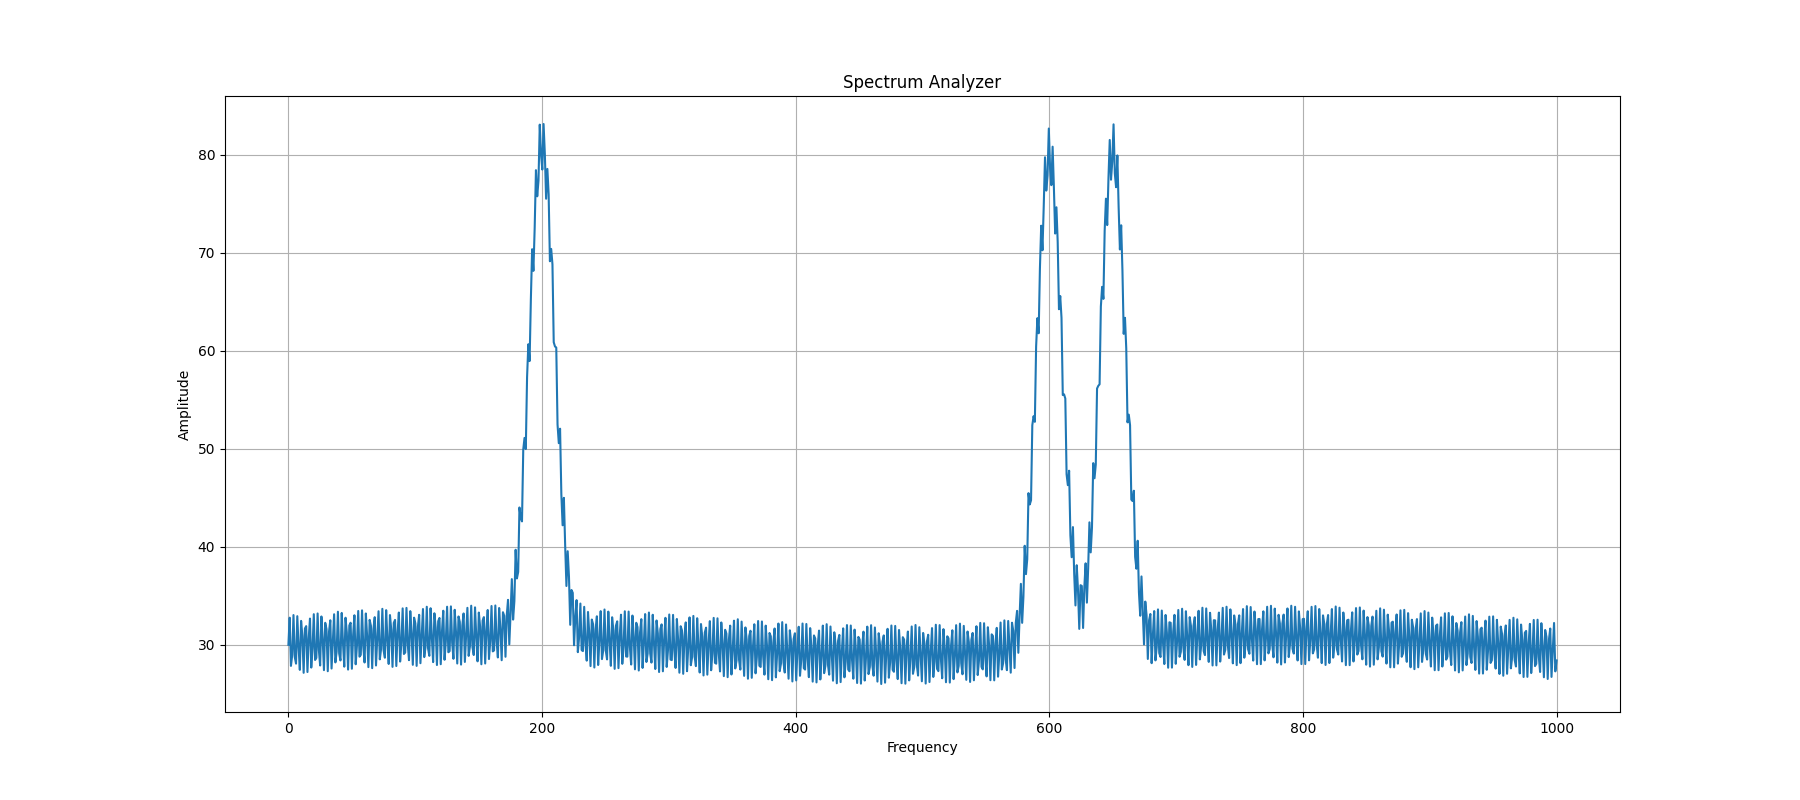
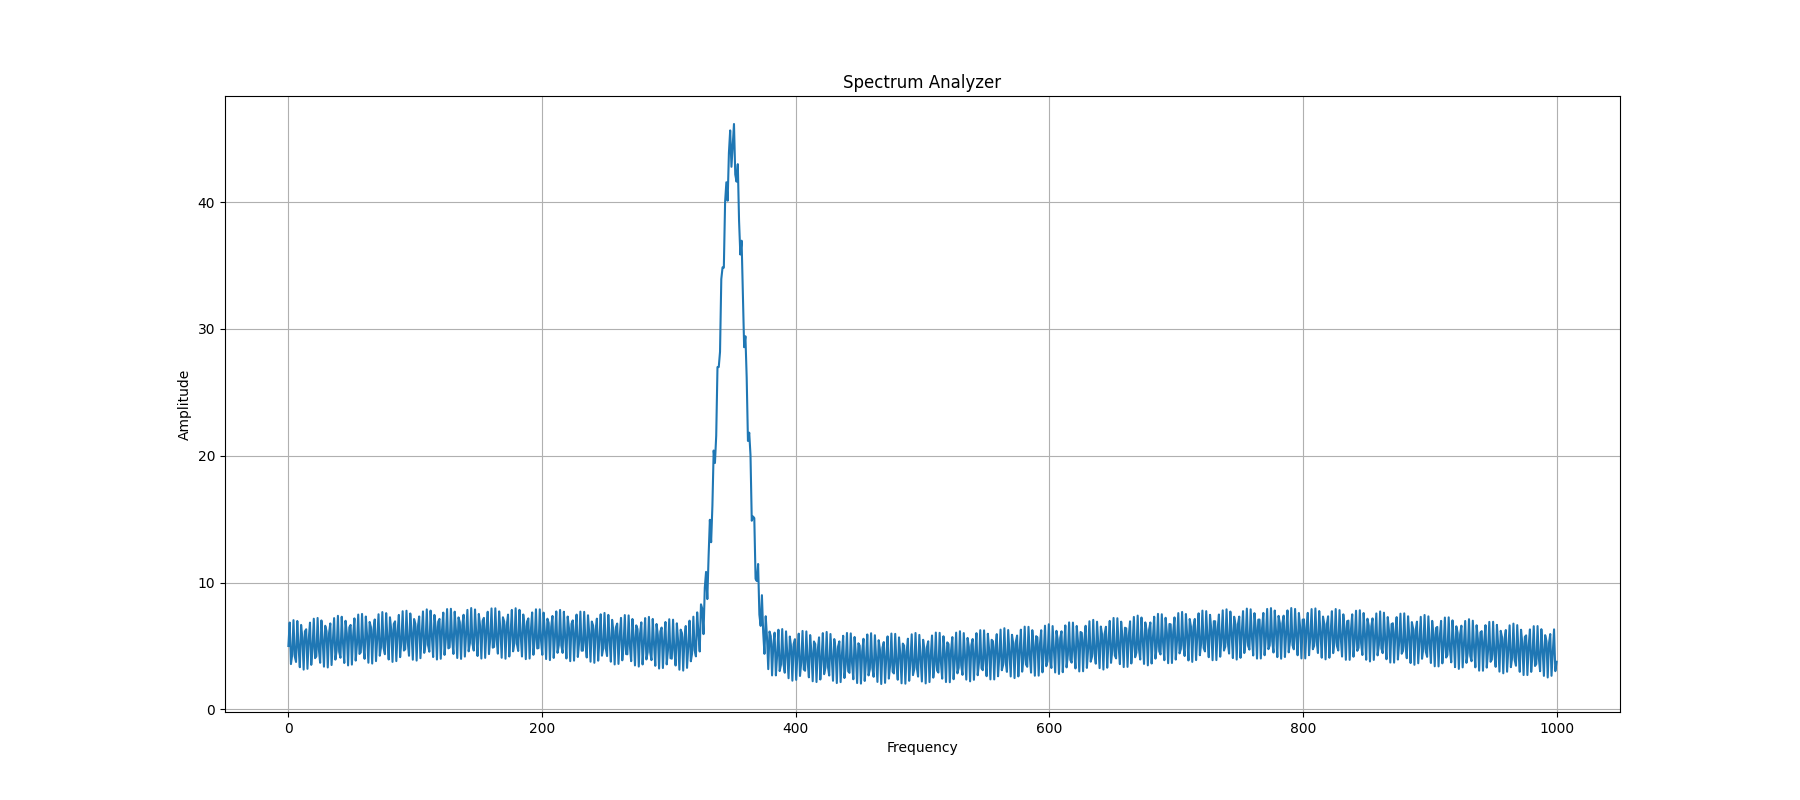
Not working yet. Need more brain to fix

diff --git a/web/templates/settings.html b/web/templates/settings.html
@@ -1,0 +1,112 @@
+<!DOCTYPE html>
+<html>
+<head>
+    <title>Settings - Spectrum Analyzer</title>
+</head>
+<body>
+    <h1>Settings - Spectrum Analyzer</h1>
+    <a href="{{ url_for('index') }}">Spectrum Analyzer</a>
+
+    <form method="POST">
+
+        <div>
+            <!-- Frequency Range Settings -->
+            <h2>Frequency Range Settings</h2>
+            {{ form.frequency_range_start.label }}
+            {{ form.frequency_range_start(size=10) }}
+            <p></p>
+            {{ form.frequency_range_end.label }}
+            {{ form.frequency_range_end(size=10) }}
+            <p></p>
+            {{ form.num_points.label }}
+            {{ form.num_points(size=10) }}
+            <p></p>
+        </div>
+
+        <div>
+            <!-- Noise Floor Settings -->
+            <h2>Noise Floor Settings</h2>
+            {{ form.noise_floor_base_amplitude.label }}
+            {{ form.noise_floor_base_amplitude(size=10) }}
+            <p></p>
+            {{ form.noise_floor_high_energy_amplitude.label }}
+            {{ form.noise_floor_high_energy_amplitude(size=10) }}
+            <p></p>
+            {{ form.noise_floor_high_energy_frequency.label }}
+            {{ form.noise_floor_high_energy_frequency(size=10) }}
+            <p></p>
+            {{ form.noise_floor_low_energy_amplitude.label }}
+            {{ form.noise_floor_low_energy_amplitude(size=10) }}
+            <p></p>
+            {{ form.noise_floor_low_energy_frequency.label }}
+            {{ form.noise_floor_low_energy_frequency(size=10) }}
+            <p></p>
+        </div>
+
+        <div>
+            <!-- Signal Spike Settings -->
+            <h2>Signal Spike Settings</h2>
+            <!-- Render fields for multiple signal spikes -->
+            {% for spike in form.signal_spike_params %}
+            <div class="spike">
+                {{ spike.signal_spike_amplitude.label }}
+                {{ spike.signal_spike_amplitude }}
+                <br>
+                {{ spike.signal_spike_mu.label }}
+                {{ spike.signal_spike_mu }}
+                <br>
+                {{ spike.signal_spike_sigma.label }}
+                {{ spike.signal_spike_sigma }}
+                <br>
+                <button type="button" class="remove-signal-spike">Remove Signal Spike</button>
+            </div>
+            {% endfor %}
+
+            <!-- Define a type of button to add a new signal spike -->
+            {{ form.hidden_tag() }}
+            <button type="button" id="add-signal-spike">Add Signal Spike</button>
+
+            <!-- Define a type of Container to group signal spike form fields -->
+            <div id="signal-spikes-container"></div>
+
+            <!-- JavaScript to handle adding and removing signal spikes -->
+            <script>
+                document.addEventListener("DOMContentLoaded", function() {
+                    var addSignalSpikeButton = document.getElementById("add-signal-spike");
+                    var container = document.getElementById("signal-spikes-container");
+
+                    // Add a new signal spike
+                    addSignalSpikeButton.addEventListener("click", function() {
+                        var signalSpikeCount = document.querySelectorAll(".spike").length;
+                        var newSignalSpike = document.createElement("div");
+                        newSpike.className = "spike";
+                        newSpike.innerHTML = `
+                            {{ form.signal_spike_params[0].signal_spike_amplitude.label }}
+                            {{ form.signal_spike_params[0].signal_spike_amplitude }}
+                            {{ form.signal_spike_params[0].signal_spike_mu.label }}
+                            {{ form.signal_spike_params[0].signal_spike_mu }}
+                            {{ form.signal_spike_params[0].signal_spike_sigma.label }}
+                            {{ form.signal_spike_params[0].signal_spike_sigma }}
+                            <button type="button" class="remove-signal-spike">Remove Spike</button>
+                        `;
+                        container.appendChild(newSpike);
+                    });
+
+                    // Remove a signal spike
+                    container.addEventListener("click", function(event) {
+                        if (event.target && event.target.className == "remove-signal-spike") {
+                            event.target.parentElement.remove();
+                        }
+                    });
+                });
+            </script>
+
+        </div>
+
+        <div>
+            <br>
+            <input type="submit" value="Update Spectrum Analyzer">
+        </div>
+    </form>
+</body>
+</html>

diff --git a/web/templates/index.html b/web/templates/index.html
@@ -5,6 +5,8 @@
 </head>
 <body>
     <h1>Spectrum Analyzer</h1>
-    <img src="/static/spectrum_plot.png" alt="Spectrum Plot">
+    <a href="{{ url_for('settings') }}">Settings</a>
+    <br>
+    <img src="{{ url_for('static', filename='spectrum_plot.png') }}" alt="Spectrum Plot">
 </body>
 </html>

diff --git a/app.py b/app.py
@@ -1,8 +1,15 @@
 from flask import Flask, render_template, send_from_directory
+import yaml
+
+from web.forms import SettingsForm  # <--'SettingsForm' is the custom form to adjust signal parameters
 from spectrum import spectrum
 
+# Initialize the Flask App
 app = Flask(__name__, template_folder='web/templates')
+app.config['WTF_CSRF_ENABLED'] = False  # Disable CSRF protection
 
+
+# Initial root page. Renders the 'index.html' file showing an image of the Spectrum Analyzer
 @app.route('/')
 def index():
     
@@ -12,6 +19,70 @@ def index():
 
     return render_template('index.html')
 
+# Settings modification page. Shows a form which is used to adjust the various signal parameters
+@app.route('/settings', methods=['GET','POST'])
+def settings():
+
+    # Instantiate the form from the template
+    form = SettingsForm()
+
+    if 'add_signal_spike' in request.form
+
+    # Run when the form is submitted, and passes the built-in validation check
+    if form.validate_on_submit():
+        # Update config with form data
+        config = {
+            'frequency_range' : {
+                'start' : form.frequency_range_start.data,
+                'end' : form.frequency_range_end.data,
+                'num_points' : form.num_points.data
+            },
+            'noise_floor_params' : {
+                'base_amplitude': form.noise_floor_base_amplitude.data,
+                'high_energy_amplitude': form.noise_floor_high_energy_amplitude.data,
+                'high_energy_frequency': form.noise_floor_high_energy_frequency.data,
+                'low_energy_amplitude': form.noise_floor_low_energy_amplitude.data,
+                'low_energy_frequency': form.noise_floor_low_energy_frequency.data
+            },
+            'signal_spike_params' : [
+                {
+                    'amplitude' : form.signal_spike_amplitude.data,
+                    'mu' : form.signal_spike_mu.data,
+                    'sigma' : form.signal_spike_sigma.data
+                }
+            ]
+        }
+
+        # Save updated configuration to the config file
+        with open('config/config.yaml', 'w') as f:
+            yaml.dump(config, f)
+
+        return app.redirect(app.url_for('index'))
+    
+    # Open the current config to populate the form
+    with open('config/config.yaml', 'r') as f:
+        current_config = yaml.load(f, Loader=yaml.FullLoader)
+
+    # # Populate the Frequency Range fields with current config data
+    # form.frequency_range_start.default = current_config['frequency_range']['start']
+    # form.frequency_range_end.default = current_config['frequency_range']['end']
+    # form.num_points.default = current_config['frequency_range']['num_points']
+    # # Populate the Noise Floor fields with current config data
+    # form.noise_floor_base_amplitude.default = current_config['noise_floor_params']['base_amplitude']
+    # form.noise_floor_high_energy_amplitude.default = current_config['noise_floor_params']['high_energy_amplitude']
+    # form.noise_floor_high_energy_frequency.default = current_config['noise_floor_params']['high_energy_frequency']
+    # form.noise_floor_low_energy_amplitude.default = current_config['noise_floor_params']['low_energy_amplitude']
+    # form.noise_floor_low_energy_frequency = current_config['noise_floor_params']['low_energy_frequency']
+    # # Populate the Signal Spike fields with current config data
+    # form.signal_spike_amplitude = int(current_config['signal_spike_params']['amplitude'])
+    # form.signal_spike_mu = int(current_config['signal_spike_params']['mu'])
+    # form.signal_spike_sigma = int(current_config['signal_spike_params']['sigma'])
+
+    # Process the form with current config data
+    form.process(data=current_config)
+    return render_template('settings.html', form=form)
+
+# Static content page. Hosts images and other static content in case they need to be accessed directly.
 @app.route('/static/<filename>')
 def static_files(filename):
     # Serve static files (like the plot image) from the 'static' directory

diff --git a/web/forms.py b/web/forms.py
@@ -1,0 +1,29 @@
+from flask_wtf import FlaskForm
+from wtforms import FloatField, IntegerField, SubmitField, FieldList, FormField
+from wtforms.validators import InputRequired
+
+class SignalSpikeForm(FlaskForm):
+    # Signal Spike Params
+    signal_spike_amplitude = FloatField('Signal Spike Amplitude', validators=[InputRequired()])
+    signal_spike_mu = FloatField('Signal Spike Center Frequency (mu)', validators=[InputRequired()])
+    signal_spike_sigma = FloatField('Signal Spike Width (sigma)', validators=[InputRequired()])
+
+
+class SettingsForm(FlaskForm):
+    # Frequency Range Params
+    frequency_range_start = FloatField('Frequency Range Start', validators=[InputRequired()])
+    frequency_range_end = FloatField('Frequency Range End', validators=[InputRequired()])
+    num_points = IntegerField('Number of Points to Plot', validators=[InputRequired()])
+    
+    # Noise Floor Params 
+    noise_floor_base_amplitude = FloatField('Noise Floor Base Amplitude', validators=[InputRequired()])
+    noise_floor_high_energy_amplitude = FloatField('Noise Floor High Energy Amplitude', validators=[InputRequired()])
+    noise_floor_high_energy_frequency = FloatField('Noise Floor High Energy Frequency', validators=[InputRequired()])
+    noise_floor_low_energy_amplitude = FloatField('Noise Floor Low Energy Amplitude', validators=[InputRequired()])
+    noise_floor_low_energy_frequency = FloatField('Noise Floor Low Energy Frequency', validators=[InputRequired()])
+
+    # Zero to ten sets of signal spike parameters
+    signal_spike_params = FieldList(FormField(SignalSpikeForm), max_entries=10)
+    
+    # Submit Form
+    submit = SubmitField('Update Settings')

diff --git a/spectrum.py b/spectrum.py
@@ -1,6 +1,7 @@
 import numpy as np
 import matplotlib.pyplot as plt
 import yaml
+import os
 
 
 class spectrum:
@@ -111,8 +112,15 @@ class spectrum:
         plt.title('Spectrum Analyzer')
         plt.grid(True)
 
+        # Set image path
+        image_path = 'web/static/spectrum_plot.png'
+
+        # If there's an old image there, delete it first
+        if os.path.exists(image_path):
+            os.remove(image_path)
+
         # Save the plot as an image in the static folder
-        plt.savefig('web/static/spectrum_plot.png')
+        plt.savefig(image_path)
 
         # Close the plot to save resources
         plt.close()
